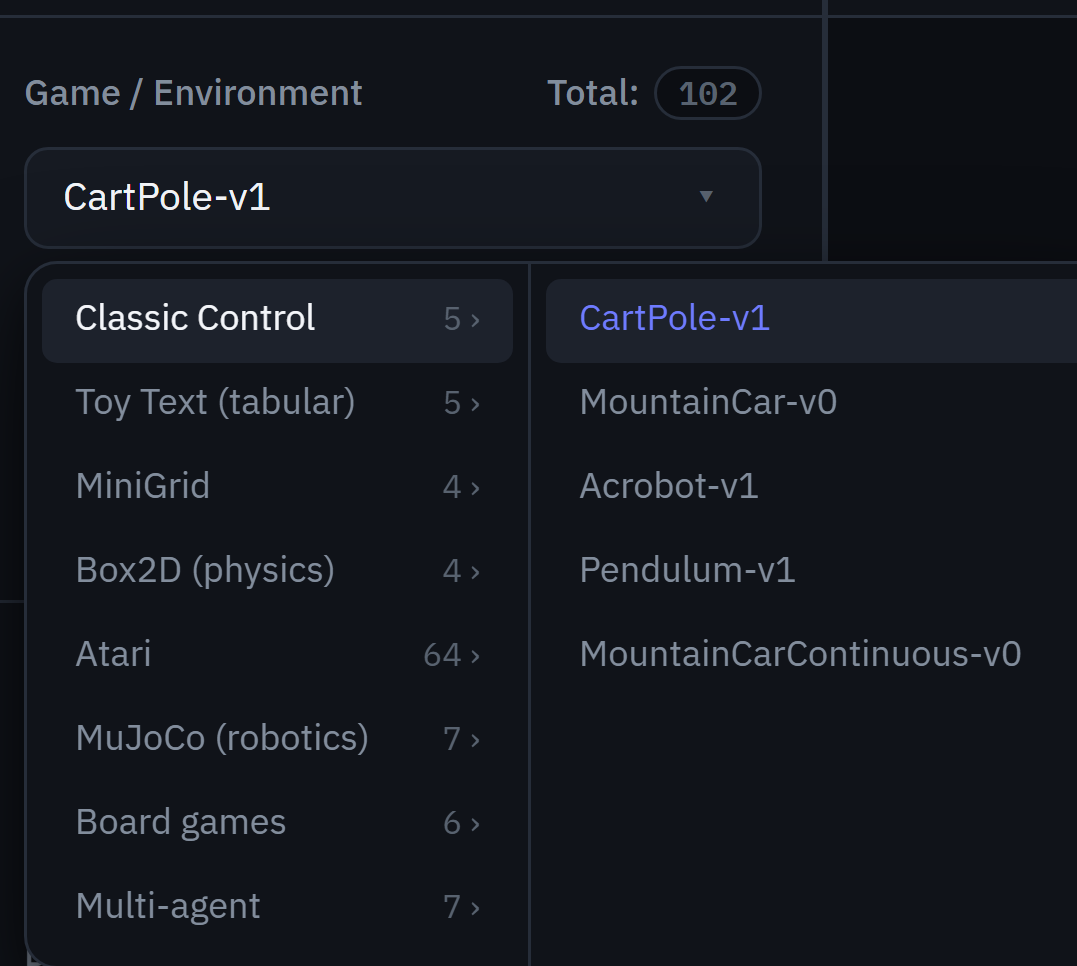
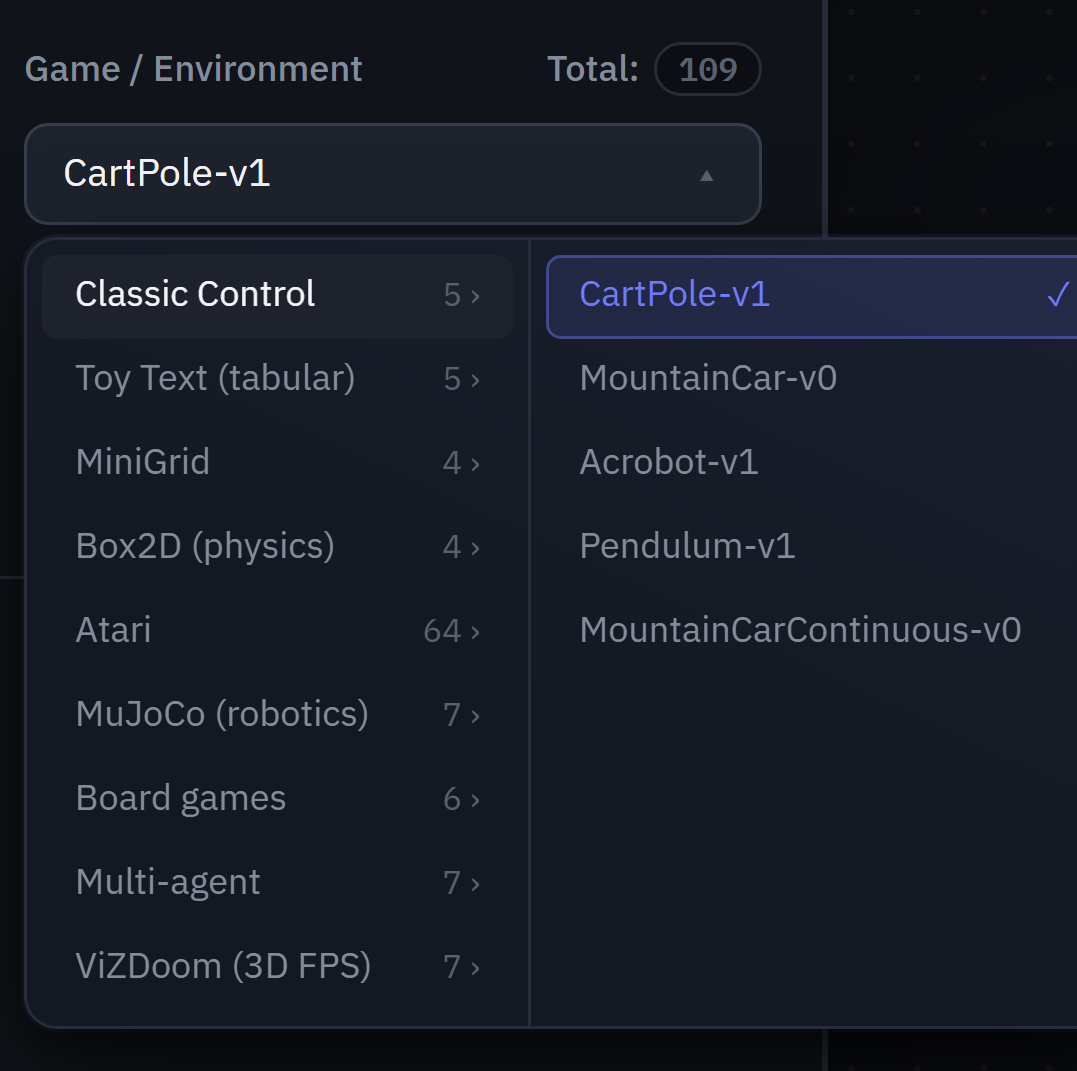
docs(readme): surface the Doom family — hero, 9 families, trained Doom GIF
- hero subtitle: 'CartPole to Atari' -> 'Atari to Doom, physics & board games'
- README: families badge 8->9, new Doom table row (7 scenarios), prose 'nine',
  intro clip-list; counts refreshed from the live backend (109 envs, 9 families)
- regenerate docs/media/env-picker.png (Total 109, all 9 families incl. ViZDoom)
- add docs/media/doom.gif to the 3x3 gallery: a real PPO agent on Doom: Defend
  the Center (11 kills -> 57% skill, 2.56 MB); re-order gallery (Doom<->Pong)
  and drop walker2d.gif

diff --git a/README.md b/README.md
@@ -23,7 +23,7 @@
   <img alt="Vite 8" src="https://img.shields.io/badge/Vite-8-646CFF?logo=vite&logoColor=white">
   <br>
   <img alt="100+ environments" src="https://img.shields.io/badge/environments-100%2B-6e7bff">
-  <img alt="8 families" src="https://img.shields.io/badge/families-8-6e7bff">
+  <img alt="9 families" src="https://img.shields.io/badge/families-9-6e7bff">
   <img alt="9 algorithms" src="https://img.shields.io/badge/algorithms-9-6e7bff">
   <img alt="tests" src="https://img.shields.io/badge/tests-421%20py%20%C2%B7%2074%20ts-3fb950">
   <img alt="i18n" src="https://img.shields.io/badge/CZ%20%2F%20EN-bilingual-e3b341">
@@ -34,8 +34,8 @@
 ## Trained agents, live
 
 Every clip below is a real policy trained inside RL Lab, replayed from a saved checkpoint — a neuroevolution
-lander, SAC/PPO MuJoCo robots, a PPO race car, a cooperative multi-agent swarm, Atari from pixels, and an
-AlphaZero board player. The badge on each shows the algorithm and the skill score that run reached.
+lander, SAC/PPO MuJoCo robots, a PPO race car, a cooperative multi-agent swarm, Atari from pixels, a Doom
+agent fighting from the first-person view, and an AlphaZero board player. The badge on each shows the algorithm and the skill score that run reached.
 
 <table>
   <tr>
@@ -46,12 +46,12 @@ AlphaZero board player. The badge on each shows the algorithm and the skill scor
   <tr>
     <td align="center"><img src="docs/media/checkers.gif" width="250" alt="Checkers — AlphaZero"></td>
     <td align="center"><img src="docs/media/bipedalwalker.gif" width="250" alt="Bipedal Walker — PPO"></td>
-    <td align="center"><img src="docs/media/pong.gif" width="250" alt="Pong — PPO"></td>
+    <td align="center"><img src="docs/media/doom.gif" width="250" alt="Doom: Defend the Center — PPO from pixels"></td>
   </tr>
   <tr>
     <td align="center"><img src="docs/media/humanoid.gif" width="250" alt="Humanoid — SAC"></td>
     <td align="center"><img src="docs/media/pursuit.gif" width="250" alt="Pursuit — cooperative multi-agent PPO"></td>
-    <td align="center"><img src="docs/media/walker2d.gif" width="250" alt="Walker2D — PPO"></td>
+    <td align="center"><img src="docs/media/pong.gif" width="250" alt="Pong — PPO"></td>
   </tr>
 </table>
 
@@ -89,7 +89,7 @@ navigating the grid, the skill meter rising from *Child* to *Superhuman*, and th
 
 | Capability | What you get |
 | :-- | :-- |
-| 🎮 **100+ environments** | Eight families — Classic Control → Toy Text → MiniGrid → Box2D → Atari → MuJoCo → board games → multi-agent — all behind one data-driven registry. |
+| 🎮 **100+ environments** | Nine families — Classic Control → Toy Text → MiniGrid → Box2D → Atari → MuJoCo → board games → multi-agent → Doom — all behind one data-driven registry. |
 | 🧠 **9 algorithms** | PPO · neuroevolution · tabular Q-learning · AlphaZero · SAC · TD3 · DQN · A2C · QR-DQN, gated per-environment with a ★ recommended pick for each game. |
 | 📈 **Live training** | Realtime reward / loss / fitness charts with EMA smoothing, a "solved @" marker, and a multi-run compare overlay. |
 | 👀 **Watch it learn** | The running policy renders live — client-side SVG for vector envs, server-streamed frames for pixels / MuJoCo — with visual on/off and time-acceleration. |
@@ -104,12 +104,12 @@ navigating the grid, the skill meter rising from *Child* to *Superhuman*, and th
 
 ## Environments
 
-**100+ environments across eight families.** The registry
+**100+ environments across nine families.** The registry
 ([`backend/app/envs/registry.py`](backend/app/envs/registry.py)) is the single source of truth — an `EnvSpec`
 row does most of the work, so most new games are a data-only addition.
 
 <p align="center">
-  <img src="docs/media/env-picker.png" width="100%" alt="Environment picker flyout showing all eight families with game counts">
+  <img src="docs/media/env-picker.png" width="100%" alt="Environment picker flyout showing all nine families with game counts">
 </p>
 
 | Family | Count | Examples | Notes |
@@ -122,6 +122,7 @@ row does most of the work, so most new games are a data-only addition.
 | **MuJoCo** | 7 | Hopper, Walker2d, HalfCheetah, Ant, Humanoid … | continuous torques; SAC is the ★ pick |
 | **Board games** | 6 | Tic-Tac-Toe, Connect Four, Othello, Breakthrough, Checkers, Chess | OpenSpiel; MaskablePPO / AlphaZero vs an MCTS teacher |
 | **Multi-agent** | 7 | simple_spread, simple_tag, Pursuit, Multiwalker, Waterworld | PettingZoo + SuperSuit param-sharing / self-play |
+| **Doom** | 7 | Basic, Defend the Center, Defend the Line, Health Gathering, Take Cover, Predict Position | 3D FPS from pixels (ViZDoom) → CNN policy on CUDA |
 
 See [`docs/adding-an-environment.md`](docs/adding-an-environment.md) and the
 [extensibility seams](docs/architecture.md#the-extensibility-seams).